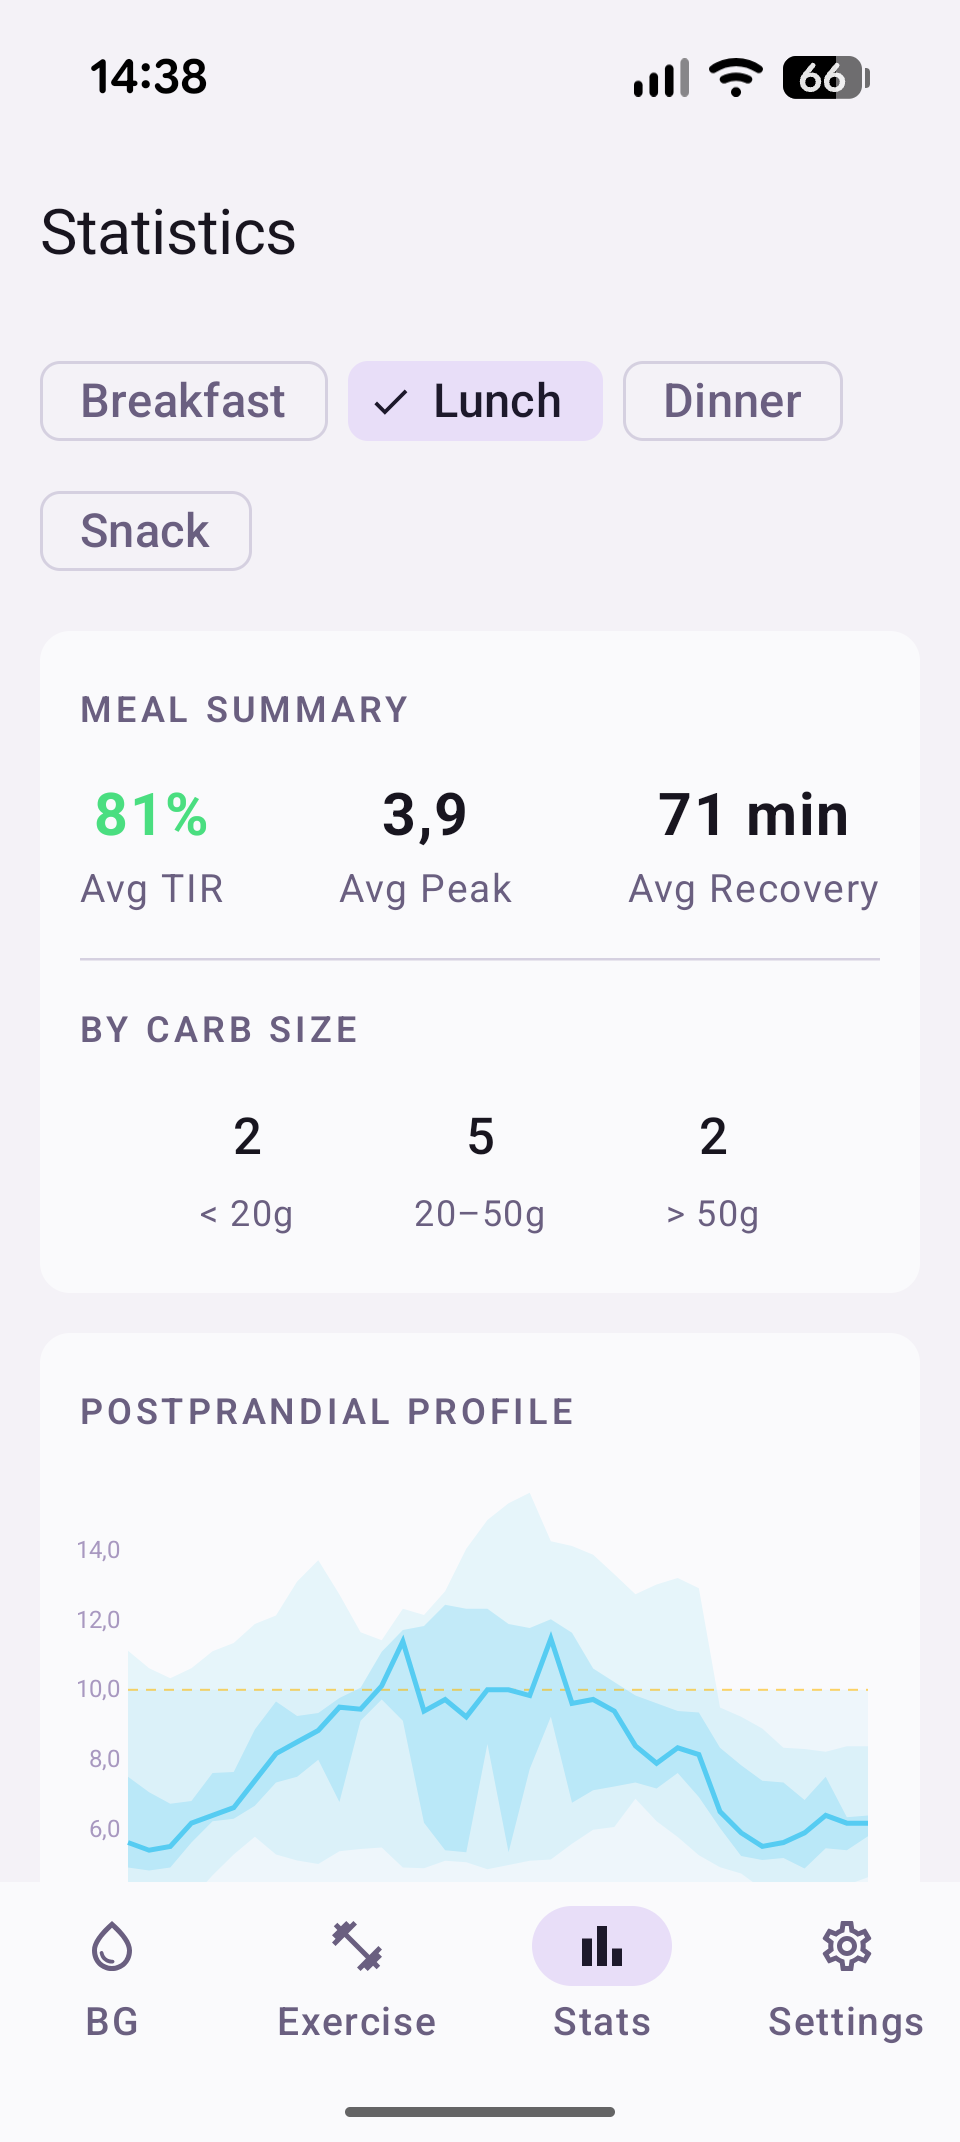
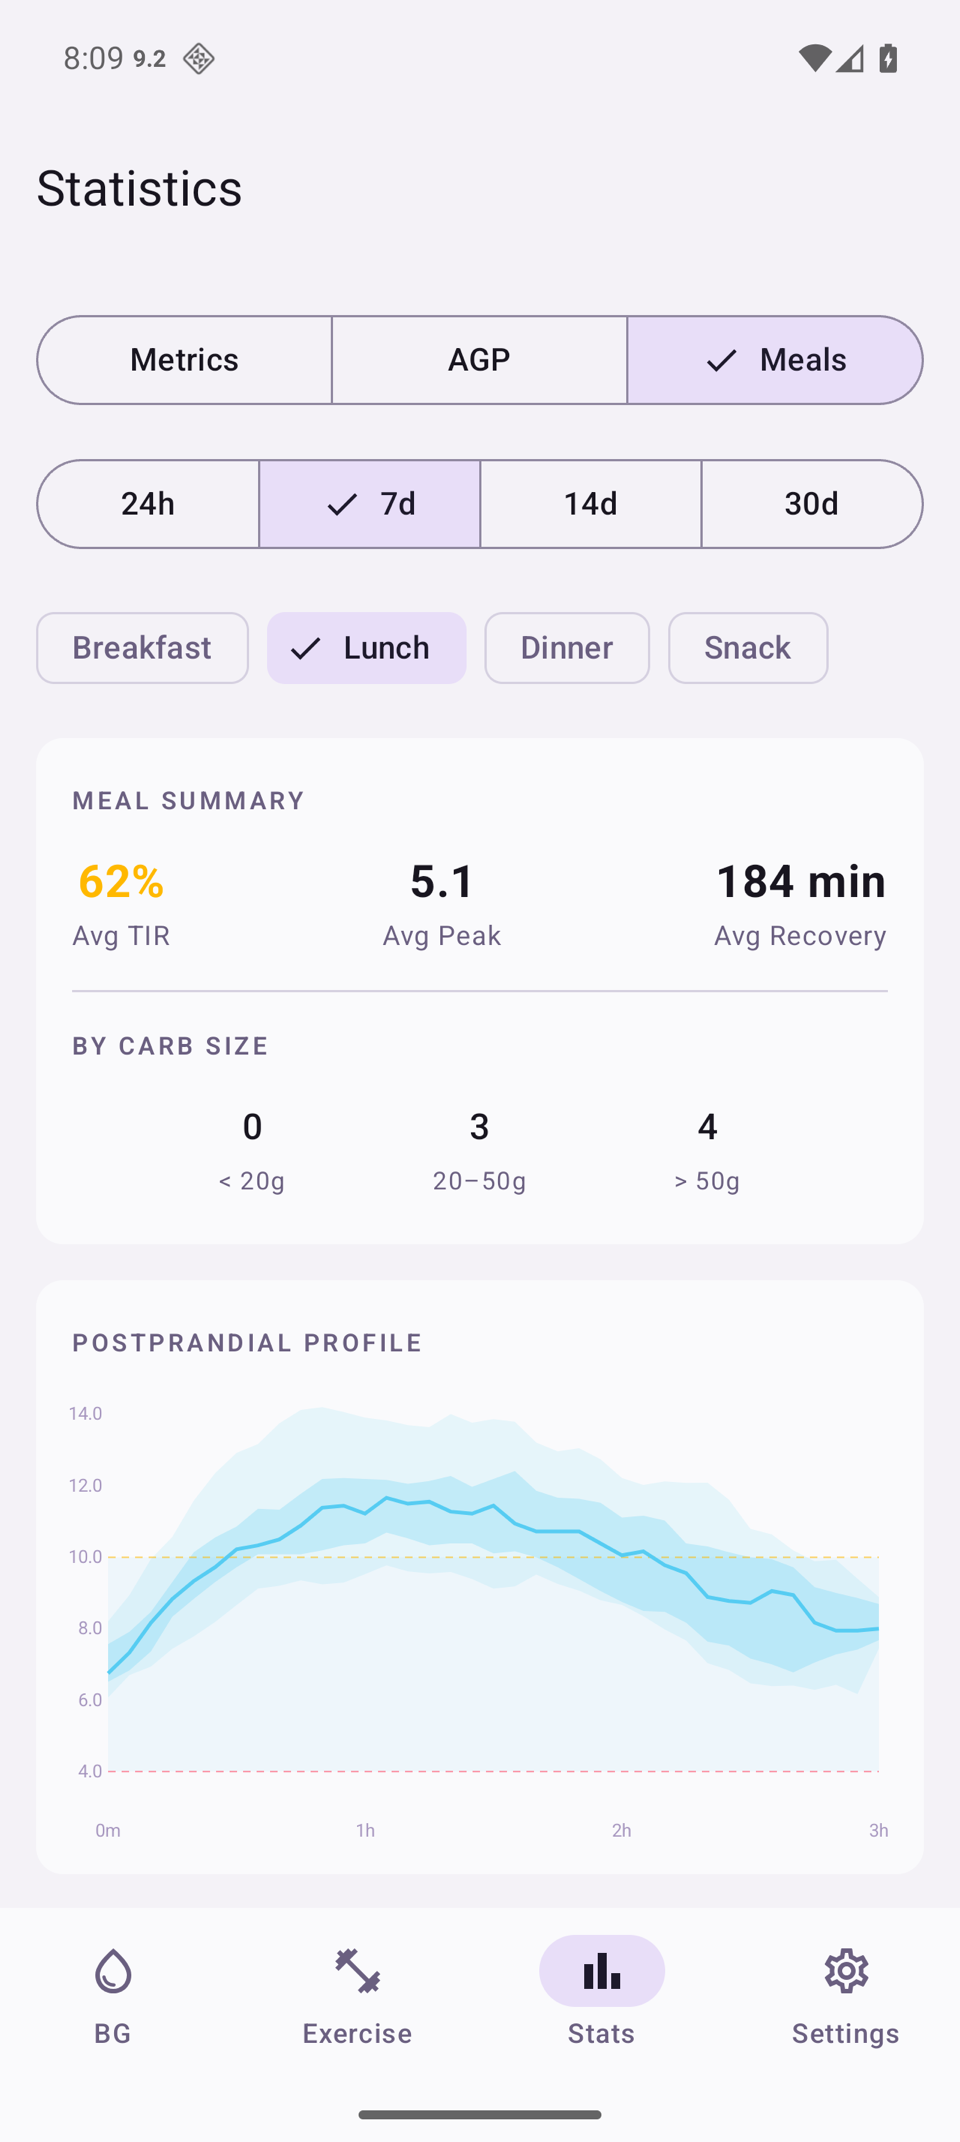
fix: meal window, recovery and IOB at meal (#356)
* fix: meal window, recovery and IOB at meal

The 4 h window extension required that no later meal existed at all, so a
lunch followed by dinner hours later was always cut at 3 h. The extension
now applies unless the next meal comes first, and a next meal between 3 h
and 4 h ends it.

Recovery used a +-5 mg/dL band around the pre-meal level, so glucose that
fell past that level between two readings never recovered. Recovery is now
the first reading after the peak at most 5 mg/dL above the pre-meal level
whose next reading is too, so one noisy dip or compression low does not
end it. A meal without a rise of more than 5 mg/dL has no recovery time. A
meal that is low at 3 h counts as recovered and keeps the 3 h window.

IOB at meal only saw treatments from the start of the period, so a bolus
shortly before an early meal was missing. Both callers now load
treatments from the IOB lookback before the period start. The Meals tab
also recomputes when tau and the target range load.

* fix: extend the meal window when glucose is below Low at 3 h

A meal whose glucose fell below the pre-meal level counts as recovered, so
a meal that crashed after an over-bolus kept the 3 h window and left the
low out of the meal's TIR and graph. The window now also extends to 4 h
when the reading at 3 h is below the Low threshold. No consensus defines
post-meal recovery; trials measure meals over 0-4 h and count lows by the
low threshold, so the low stays inside the meal.
[…]

diff --git a/app/src/test/java/com/psjostrom/strimma/data/meal/MealAnalyzerTest.kt b/app/src/test/java/com/psjostrom/strimma/data/meal/MealAnalyzerTest.kt
@@ -143,7 +143,7 @@ class MealAnalyzerTest {
         assertNotNull(result)
         result!!
 
-        // BG returns to ~110 (within baseline ±5) around 150 min
+        // BG falls to ~110, at most 5 mg/dL above the baseline, around 150 min
         assertNotNull(result.recoveryMinutes)
         assertTrue("Recovery should be around 145-155 min", result.recoveryMinutes!! in 145..155)
     }
@@ -231,6 +231,135 @@ class MealAnalyzerTest {
 
         // Window extends because BG hasn't returned to baseline at 180 min
         assertEquals(240, result.windowMinutes)
+    }
+
+    @Test
+    fun `window extends to 240 when the next meal is hours later`() {
+        val preMeal = (-15L..-1L).map { reading(it, 108) }
+        val spikeAndStay = (1L..240L).map { reading(it, 200) }
+
+        val result = analyzer.analyze(
+            meal = meal(50.0),
+            readings = preMeal + spikeAndStay,
+            params = MealAnalysisParams(
+                bgLow = 72.0, bgHigh = 180.0,
+                nextMealTime = baseTime + minutes(360), allTreatments = emptyList(),
+                tauMinutes = 55.0)
+        )
+
+        assertEquals(240, result!!.windowMinutes)
+    }
+
+    @Test
+    fun `a next meal between 180 and 240 minutes ends the extended window`() {
+        val preMeal = (-15L..-1L).map { reading(it, 108) }
+        val spikeAndStay = (1L..240L).map { reading(it, 200) }
+
+        val result = analyzer.analyze(
+            meal = meal(50.0),
+            readings = preMeal + spikeAndStay,
+            params = MealAnalysisParams(
+                bgLow = 72.0, bgHigh = 180.0,
+                nextMealTime = baseTime + minutes(200), allTreatments = emptyList(),
+                tauMinutes = 55.0)
+        )
+
+        assertEquals(200, result!!.windowMinutes)
+    }
+
+    @Test
+    fun `recovery counts a reading that falls below the pre-meal level`() {
+        // Baseline 108. BG peaks at 180 and falls from 130 straight to 90 between two
+        // readings, so no reading lands within 5 mg/dL of the baseline.
+        val preMeal = (-15L..-1L step 5).map { reading(it, 108) }
+        val postMeal = listOf(
+            reading(30, 150), reading(60, 180), reading(90, 160),
+            reading(120, 130), reading(150, 90), reading(180, 95)
+        )
+
+        val result = analyzer.analyze(
+            meal = meal(50.0),
+            readings = preMeal + postMeal,
+            params = MealAnalysisParams(
+                bgLow = 72.0, bgHigh = 180.0,
+                nextMealTime = null, allTreatments = emptyList(),
+                tauMinutes = 55.0)
+        )
+
+        assertEquals(150, result!!.recoveryMinutes)
+    }
+
+    @Test
+    fun `a meal without a rise has no recovery time`() {
+        val preMeal = (-15L..-1L step 5).map { reading(it, 150) }
+        val falling = (5L..180L step 5).map { reading(it, (148 - it / 5 * 2).toInt()) }
+
+        val result = analyzer.analyze(
+            meal = meal(20.0),
+            readings = preMeal + falling,
+            params = MealAnalysisParams(
+                bgLow = 72.0, bgHigh = 180.0,
+                nextMealTime = null, allTreatments = emptyList(),
+                tauMinutes = 55.0)
+        )
+
+        assertNull(result!!.recoveryMinutes)
+    }
+
+    @Test
+    fun `one low reading after the peak does not end recovery`() {
+        // Baseline 110. A single dip to 75 at 90 min is followed by 170 again; glucose
+        // is back near baseline from 150 min.
+        val preMeal = (-15L..-1L step 5).map { reading(it, 110) }
+        val postMeal = listOf(
+            reading(30, 160), reading(60, 200), reading(90, 75), reading(120, 170),
+            reading(150, 112), reading(165, 110), reading(180, 108)
+        )
+
+        val result = analyzer.analyze(
+            meal = meal(50.0),
+            readings = preMeal + postMeal,
+            params = MealAnalysisParams(
+                bgLow = 72.0, bgHigh = 180.0,
+                nextMealTime = null, allTreatments = emptyList(),
+                tauMinutes = 55.0)
+        )
+
+        assertEquals(150, result!!.recoveryMinutes)
+    }
+
+    @Test
+    fun `a meal that is below Low at 180 minutes extends the window to 240`() {
+        val preMeal = (-15L..-1L step 5).map { reading(it, 108) }
+        val postMeal = (5L..240L step 5).map { t -> reading(t, if (t < 60) 160 else 60) }
+
+        val result = analyzer.analyze(
+            meal = meal(50.0),
+            readings = preMeal + postMeal,
+            params = MealAnalysisParams(
+                bgLow = 72.0, bgHigh = 180.0,
+                nextMealTime = null, allTreatments = emptyList(),
+                tauMinutes = 55.0)
+        )
+
+        assertEquals(240, result!!.windowMinutes)
+    }
+
+    @Test
+    fun `a meal below the pre-meal level but above Low at 180 minutes keeps the 180 minute window`() {
+        val preMeal = (-15L..-1L step 5).map { reading(it, 108) }
+        val postMeal = (5L..240L step 5).map { t -> reading(t, if (t < 60) 160 else 90) }
+
+        val result = analyzer.analyze(
+            meal = meal(50.0),
+            readings = preMeal + postMeal,
+            params = MealAnalysisParams(
+                bgLow = 72.0, bgHigh = 180.0,
+                nextMealTime = null, allTreatments = emptyList(),
+                tauMinutes = 55.0)
+        )
+
+        assertEquals(180, result!!.windowMinutes)
     }
 
     @Test

diff --git a/app/src/main/java/com/psjostrom/strimma/data/meal/MealAnalyzer.kt b/app/src/main/java/com/psjostrom/strimma/data/meal/MealAnalyzer.kt
@@ -56,7 +56,7 @@ class MealAnalyzer @Inject constructor() {
         val baseline = computeBaseline(readings, mealTime) ?: return null
 
         // 2. Determine postprandial window
-        val windowMinutes = determineWindow(readings, mealTime, baseline, params.nextMealTime)
+        val windowMinutes = determineWindow(readings, mealTime, baseline, params.bgLow, params.nextMealTime)
 
         // 3. Extract postprandial readings
         val windowEnd = mealTime + Duration.ofMinutes(windowMinutes).toMillis()
@@ -122,6 +122,7 @@ class MealAnalyzer @Inject constructor() {
         readings: List<GlucoseReading>,
         mealTime: Long,
         baseline: Double,
+        bgLow: Double,
         nextMealTime: Long?
     ): Long {
         val defaultEnd = mealTime + Duration.ofMinutes(DEFAULT_WINDOW_MINUTES).toMillis()
@@ -139,12 +140,15 @@ class MealAnalyzer @Inject constructor() {
             .filter { it.ts in (effectiveEnd - MS_PER_MINUTE * RECOVERY_CHECK_WINDOW_MINUTES)..effectiveEnd }
             .lastOrNull()
 
-        // Extend to 4h if BG hasn't recovered at 3h (and no next meal cutoff)
-        val shouldExtend = nextMealTime == null &&
-            bgAtDefaultEnd != null &&
-            !hasReturned(bgAtDefaultEnd.sgv.toDouble(), baseline)
+        // Extend toward 4h if BG at 3h has not come back down, or is below the Low threshold,
+        // so a low after the meal stays in the window. A next meal before 3h already ended
+        // the window; a next meal between 3h and 4h ends the extension.
+        val bgAt3h = bgAtDefaultEnd?.sgv?.toDouble()
+        val shouldExtend = (nextMealTime == null || nextMealTime >= defaultEnd) &&
+            bgAt3h != null &&
+            (!hasReturned(bgAt3h, baseline) || bgAt3h < bgLow)
 
-        val finalEnd = if (shouldExtend) extendedEnd else effectiveEnd
+        val finalEnd = if (shouldExtend) minOf(extendedEnd, nextMealTime ?: extendedEnd) else effectiveEnd
 
         return ((finalEnd - mealTime) / MS_PER_MINUTE)
     }
@@ -154,20 +158,30 @@ class MealAnalyzer @Inject constructor() {
         mealTime: Long,
         baseline: Double
     ): Int? {
-        // Find peak
+        // A meal without a rise has nothing to recover from.
         val peak = postprandialReadings.maxByOrNull { it.sgv } ?: return null
+        if (hasReturned(peak.sgv.toDouble(), baseline)) return null
 
-        // Find first reading after peak that returns to baseline ±5
+        // The first reading after the peak that is back down near the pre-meal level, and
+        // whose next reading is too. One low reading, such as sensor noise or a
+        // compression low, does not end recovery.
         val afterPeak = postprandialReadings.filter { it.ts > peak.ts }
-        val recoveryReading = afterPeak.firstOrNull { hasReturned(it.sgv.toDouble(), baseline) }
+        val recoveryReading = afterPeak.zipWithNext()
+            .firstOrNull { (reading, next) ->
+                hasReturned(reading.sgv.toDouble(), baseline) && hasReturned(next.sgv.toDouble(), baseline)
+            }
+            ?.first
 
         return recoveryReading?.let {
             ((it.ts - mealTime) / MS_PER_MINUTE).toInt()
         }
     }
 
+    // Glucose has recovered once it is at most 5 mg/dL (0.3 mmol/L) above the pre-meal
+    // level. Falling below the pre-meal level also counts: a reading that drops past the
+    // baseline between two samples has recovered.
     private fun hasReturned(bgMgdl: Double, baseline: Double): Boolean {
-        return bgMgdl in (baseline - BASELINE_TOLERANCE_MGDL)..(baseline + BASELINE_TOLERANCE_MGDL)
+        return bgMgdl <= baseline + BASELINE_TOLERANCE_MGDL
     }
 
     private fun computeTIR(

diff --git a/app/src/main/java/com/psjostrom/strimma/ui/MealStatsTab.kt b/app/src/main/java/com/psjostrom/strimma/ui/MealStatsTab.kt
@@ -32,6 +32,7 @@ import com.psjostrom.strimma.R
 import com.psjostrom.strimma.data.GlucoseReading
 import com.psjostrom.strimma.data.MS_PER_MINUTE
 import com.psjostrom.strimma.data.GlucoseUnit
+import com.psjostrom.strimma.data.IOBComputer
 import com.psjostrom.strimma.data.Treatment
 import com.psjostrom.strimma.data.meal.CarbSizeBucket
 import com.psjostrom.strimma.data.meal.MealAgpCalculator
@@ -103,14 +104,15 @@ fun MealStatsTab(
     var selectedSlot by remember { mutableStateOf<MealTimeSlot?>(null) }
 
     var mealsLoaded by remember { mutableStateOf(false) }
-    val results by produceState<List<MealPostprandialResult>>(emptyList(), selectedPeriod) {
+    val results by produceState<List<MealPostprandialResult>>(emptyList(), selectedPeriod, tauMinutes, bgLow, bgHigh) {
         mealsLoaded = false
         val (hours, _) = periods[selectedPeriod]
         val now = System.currentTimeMillis()
         val start = now - hours * 3600_000L
         val readings = onLoadReadings(hours)
         val carbTreatments = onLoadCarbTreatments(start, now)
-        val allTreatments = onLoadAllTreatments(start)
+        // IOB at the first meal counts insulin from before the period.
+        val allTreatments = onLoadAllTreatments(start - IOBComputer.lookbackMs(tauMinutes))
         value = carbTreatments.mapIndexedNotNull { i, meal ->
             val nextMealTime = carbTreatments.getOrNull(i + 1)?.createdAt
             analyzer.analyze(meal, readings, MealAnalysisParams(

diff --git a/app/src/main/java/com/psjostrom/strimma/ui/story/StoryViewModel.kt b/app/src/main/java/com/psjostrom/strimma/ui/story/StoryViewModel.kt
@@ -152,7 +152,6 @@ class StoryViewModel @Inject constructor(
             val readings = statsReadings.inRange(curStart, curEnd)
             val prevReadings = statsReadings.inRange(prevStart, prevEnd)
             val carbTreatments = treatmentDao.carbsInRange(curStart, curEnd)
-            val allTreatments = treatmentDao.allSince(curStart)
 
             // Use the user's standard targets, NOT workout-mode-affected runtime
             // thresholds. Workout mode is a moment-in-time runtime state; historical
@@ -163,6 +162,8 @@ class StoryViewModel @Inject constructor(
             val insulinType = settings.insulinType.first()
             val customDIA = settings.customDIA.first()
             val tauMinutes = IOBComputer.tauForInsulinType(insulinType, customDIA)
+            // IOB at the month's first meal counts insulin from before the month.
+            val allTreatments = treatmentDao.allSince(curStart - IOBComputer.lookbackMs(tauMinutes))
 
             val mealConfig = MealTimeSlotConfig(
                 breakfastStart = settings.mealBreakfastStart.first(),

diff --git a/docs/guide/statistics.md b/docs/guide/statistics.md
@@ -151,7 +151,9 @@ Each meal shows:
 - Treatment sync must be enabled
 - Treatment retention follows **Settings > General > Storage > Data retention** (default: Forever; minimum 3 months)
 - Each meal needs ≥3 pre-meal readings (15-min window) and ≥5 postprandial readings to be analyzed
-- The postprandial window is 3 hours by default, extending to 4 hours if glucose hasn't recovered
+- The postprandial window is 3 hours by default. It extends to 4 hours if glucose at 3 hours hasn't come back down, or is below your Low threshold. The next meal ends the window early.
+- Recovery time is the time from the meal until glucose, after its peak, is no more than 0.3 mmol/L (5 mg/dL) above the pre-meal level for two readings in a row. A drop below the pre-meal level also counts as recovered. A meal where glucose did not rise more than 0.3 mmol/L has no recovery time.
+- IOB at meal includes insulin given before the selected period.
 
 ---
 
